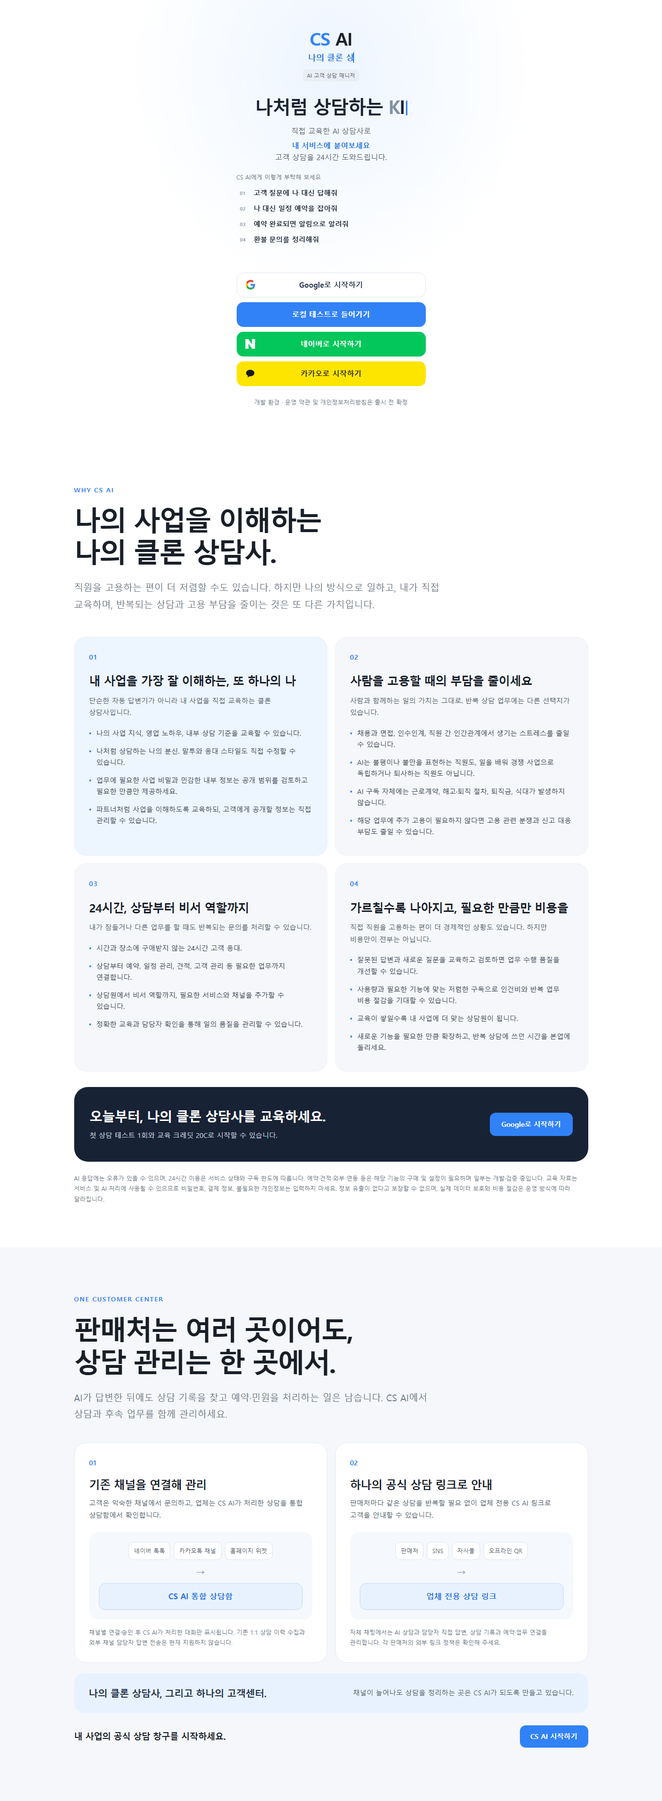
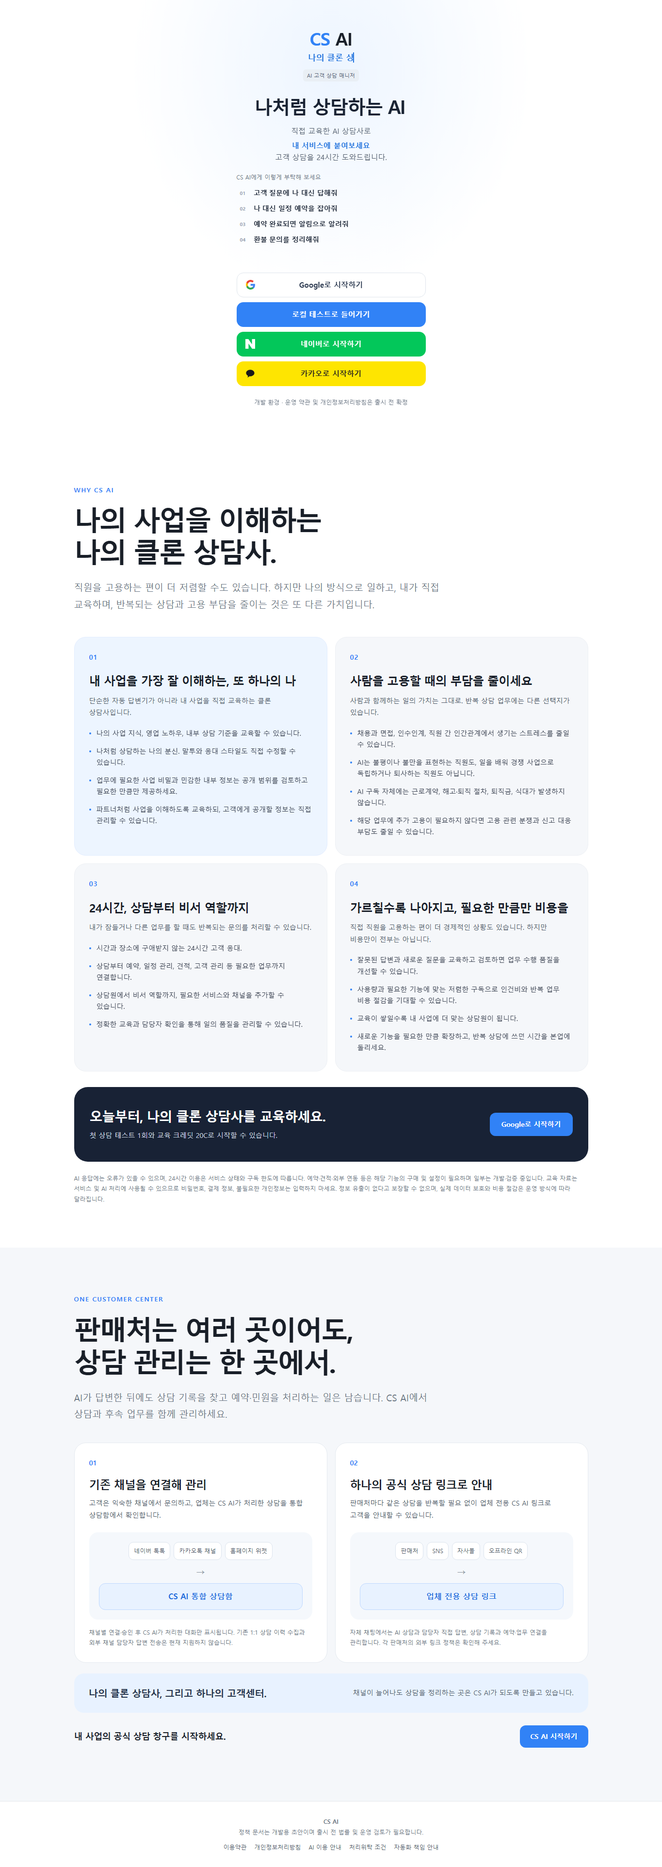
feat: add draft AI responsibility policies and consent flow

diff --git a/web/app.js b/web/app.js
@@ -291,3 +291,19 @@ async function cancelCustomJob(id){await act(async()=>{await api('/api/custom-jo
 
 async function sandboxFail(id){if(!confirm('테스트 주문을 결제 실패 상태로 변경할까요?'))return;await act(async()=>{await api('/api/billing/orders/'+id+'/sandbox-fail',{});await refresh();render()})}
 async function sandboxRefund(id){if(!confirm('실제 돈은 환불되지 않습니다. 테스트 주문의 이용 권한이나 잔액을 회수할까요?'))return;await act(async()=>{await api('/api/billing/orders/'+id+'/sandbox-refund',{confirmed:true});await refresh();render()})}
+
+/* Versioned policy drafts: separate required acknowledgements and automation risk check. */
+const policyLinks=()=>`<nav class="policy-links" aria-label="서비스 정책"><a href="/policies/terms" target="_blank">이용약관</a><a href="/policies/privacy" target="_blank">개인정보처리방침</a><a href="/policies/ai" target="_blank">AI 이용 안내</a><a href="/policies/dpa" target="_blank">처리위탁 조건</a><a href="/policies/automation" target="_blank">자동화 책임 안내</a></nav>`;
+const oldHome=home;
+home=()=>oldHome()+`<footer class="site-policy-footer"><b>CS AI</b><p>정책 문서는 개발용 초안이며 출시 전 법률 및 운영 검토가 필요합니다.</p>${policyLinks()}</footer>`;
+const oldShell=shell;
+shell=body=>oldShell(body).replace('</main>',`<footer class="app-policy-footer">${policyLinks()}</footer></main>`);
+const oldPhone=phone;
+phone=(s,test=false,preview=false)=>oldPhone(s,test,preview).replace('</header>','</header><div class="ai-disclosure"><b>AI 상담 안내</b> · 답변에 오류가 있을 수 있습니다. 예약·결제·환불 조건은 업체 담당자에게 확인해 주세요. <a href="/policies/ai" target="_blank">AI 이용 안내</a> · <a href="/policies/privacy" target="_blank">개인정보 안내</a></div>');
+const policySettingsBase=settings;
+settings=async()=> (await policySettingsBase())+card('AI 자동화 위험 확인',`<p class="muted">예약 자동 확정은 별도 확인 후 사용할 수 있습니다. 견적 확정·실제 환불·보상 약속은 담당자 승인이 필요합니다.</p><p><a href="/policies/automation" target="_blank">자동화 및 책임 정책 보기</a></p>${['errors|AI 답변과 처리 결과에 오류가 생길 수 있음을 확인합니다.','accuracy|등록한 가격·예약 정보와 정책을 정확히 관리합니다.','approval|계약·결제·환불·보상 결정은 담당자가 승인합니다.'].map(x=>{let [k,v]=x.split('|');return `<label class="policy-check"><input type="checkbox" id="auto-${k}"> ${e(v)}</label>`}).join('')}${btn(me.policy?.automation_accepted?'확인 기록 갱신':'자동화 위험 확인 저장','saveAutomationAck()','primary')}`);
+async function saveAutomationAck(){await act(async()=>{await api('/api/policies/automation-ack',{version:me.policy.version,errors:checked('auto-errors'),accuracy:checked('auto-accuracy'),approval:checked('auto-approval')});await refresh();toast('자동화 위험 확인을 기록했습니다.');render()})}
+function consentScreen(){let items=[['terms','서비스 이용약관'],['privacy','개인정보처리방침 확인'],['ai','AI 이용 및 책임 안내'],['dpa','개인정보 처리위탁 조건']];return `<div class="policy-consent"><section class="card"><div class="brand"><b>CS</b> AI</div><h1>서비스 정책 확인</h1><p class="muted">${me.policy?.draft?'개발용 초안입니다. 정식 출시 전 법률 검토와 운영 정보 확정이 필요합니다.':'서비스를 사용하려면 아래 내용을 각각 확인해 주세요.'}</p>${items.map(([k,n])=>`<label class="policy-check"><input type="checkbox" id="policy-${k}"><span>[필수] ${e(n)} <a href="/policies/${k}" target="_blank" onclick="event.stopPropagation()">내용 보기</a></span></label>`).join('')}<p class="muted">마케팅 수신 동의는 실제 운영 방식이 정해진 뒤 별도로 요청합니다.</p>${btn('확인하고 계속하기','savePolicyConsent()','primary')} ${btn('로그아웃','logout()')}</section></div>`}
+async function savePolicyConsent(){await act(async()=>{await api('/api/policies/accept',{version:me.policy.version,...Object.fromEntries(['terms','privacy','ai','dpa'].map(k=>[k,checked('policy-'+k)]))});await refresh();render()})}
+const oldRender=render;
+render=async function(){if(me&&!me.policy?.accepted){$('#app').innerHTML=consentScreen();return}return oldRender()};

diff --git a/web/ui-refinement.css b/web/ui-refinement.css
@@ -57,6 +57,20 @@
 .phone .chat-actions{display:flex;gap:6px;flex-wrap:wrap;padding-top:8px}
 .phone .chat-actions button{min-height:31px;padding:5px 9px;font-size:11px}
 .phone .phone-foot{padding:8px 0 0;color:#9aa4af;font-size:10px}
+.ai-disclosure{padding:10px 16px;background:#f4f8ff;color:#4e5968;font-size:12px;line-height:1.55;border-bottom:1px solid #e8eef7}
+.ai-disclosure b{color:#236fde}
+.site-policy-footer,.app-policy-footer{padding:32px 20px;text-align:center;color:#6b7684;font-size:12px}
+.site-policy-footer{background:#fff;border-top:1px solid #e5e8eb}
+.site-policy-footer p{margin:4px 0 12px}
+.policy-links{display:flex;justify-content:center;flex-wrap:wrap;gap:8px 16px}
+.policy-links a{color:#4e5968;text-decoration:none}
+.policy-links a:hover{text-decoration:underline}
+.policy-consent{min-height:100dvh;display:grid;place-items:center;padding:20px;background:#f4f6f8}
+.policy-consent>.card{width:min(100%,520px);background:#fff}
+.policy-consent .brand{margin-bottom:20px;font-size:22px}
+.policy-check{display:flex;align-items:flex-start;gap:10px;padding:13px 0;border-bottom:1px solid #edf0f2;line-height:1.5;cursor:pointer}
+.policy-check input{width:auto;margin:4px 0 0;flex:none}
+.policy-check a{margin-left:6px;white-space:nowrap}
 .phone .resize-note{color:#9aa4af}
 .phone .chat-pending{background:#fff;color:#6b7684;border:1px solid #e9edf2}
 .phone .streaming-reply{background:#fff;color:#191f28;border:1px solid #e9edf2;border-radius:16px 16px 16px 5px}

diff --git a/policies.py b/policies.py
@@ -1,0 +1,83 @@
+"""Versioned development policy drafts and auditable workspace acknowledgements."""
+import html
+import os
+from fastapi import HTTPException, Depends
+from fastapi.responses import HTMLResponse
+from store import db, one, now
+
+VERSION = 'draft-2026-11-26'
+APPROVED = os.getenv('POLICY_APPROVED_VERSION') == VERSION
+if os.getenv('POLICY_ENFORCE') == '1' and not APPROVED:
+    raise RuntimeError('Approve and version the final policy text before POLICY_ENFORCE=1')
+ENFORCED = os.getenv('POLICY_ENFORCE') == '1' and APPROVED
+DOCUMENTS = {
+    'terms': ('서비스 이용약관', [
+        'CS AI는 업체의 고객 상담과 관련 업무를 지원하는 소프트웨어입니다. 업체는 자신이 판매하는 상품·서비스, 등록한 상담 자료와 가격·환불 정책을 관리합니다.',
+        'AI 답변에는 오류가 있을 수 있습니다. 업체는 중요한 계약, 결제, 견적, 환불 및 손해배상 결정을 담당자가 확인하도록 운영해야 합니다.',
+        'CS AI의 시스템 결함, 개인정보 사고 또는 결제 오류에 관한 책임은 원인과 적용 법령에 따라 판단합니다. 고의나 중대한 과실에 대한 법정 책임을 일괄 배제하지 않습니다.',
+        '요금, 해지, 환불, 장애 보상 및 분쟁 접수 절차는 출시 전 별도 확정이 필요합니다.'
+    ]),
+    'privacy': ('개인정보처리방침', [
+        '업체 계정 식별정보, 교육 자료, 상담 기록, 예약 정보 및 사용량을 서비스 제공·보안·고객 지원을 위해 처리합니다.',
+        '업체의 최종 고객 정보에 대해서는 업체와 CS AI의 역할을 구분하고 처리위탁 조건을 별도로 정합니다.',
+        '보관 기간, 삭제 절차, 국외 이전 대상·국가·방법, 문의처는 실제 인프라와 계약을 확인한 뒤 출시 전에 명시해야 합니다.',
+        '선택적 마케팅 수신은 서비스 이용과 분리해 동의를 받습니다.'
+    ]),
+    'ai': ('AI 이용 및 책임 안내', [
+        '상담은 생성형 AI가 업체가 입력한 자료와 설정을 기반으로 수행할 수 있습니다. 사실관계가 불명확한 경우 담당자 확인으로 전환해야 합니다.',
+        'AI 결과에는 부정확하거나 누락된 내용이 있을 수 있습니다. 업체는 제공 자료와 설정을 최신 상태로 유지하고 중요한 결과를 검토합니다.',
+        '등록되지 않은 할인, 환불, 보상, 법적 약속 또는 금전 지급은 AI가 확정할 수 없습니다. 관련 요청은 담당자가 결정합니다.',
+        '고객에게 AI 사용 사실을 상담 전에 알리고, 필요한 경우 생성 결과임을 표시합니다.'
+    ]),
+    'dpa': ('개인정보 처리위탁 조건 초안', [
+        '업체는 고객정보의 처리 목적과 범위를 결정하고, CS AI는 계약된 상담·예약·기록 관리 목적에 한해 해당 정보를 처리합니다.',
+        '접근 통제, 사고 통지, 재위탁, 국외 이전, 보관·반환·삭제, 감사 및 계약 종료 조항은 실제 공급업체와 데이터 흐름을 확인해 별도 계약으로 확정해야 합니다.'
+    ]),
+    'automation': ('AI 자동화 및 승인 정책', [
+        '일반 문의와 등록 정보 안내는 업체 설정에 따라 자동 처리할 수 있습니다.',
+        '예약 자동 확정은 업체가 별도 위험 안내를 확인하고 기능을 켠 경우에만 허용됩니다. 예약 조건과 재고·중복 여부를 업체가 관리합니다.',
+        '견적 확정, 실제 환불, 할인·보상 약속 및 손해배상 합의는 담당자 승인 전 자동으로 실행하지 않습니다.',
+        '자동화로 생긴 손해의 책임은 입력 정보, 승인·운영 과정, 시스템 결함 및 적용 법령을 함께 검토해 판단합니다.'
+    ])
+}
+
+def status(c, ws):
+    accepted = one(c, 'SELECT * FROM policy_acceptance WHERE ws=? AND version=?', (ws, VERSION))
+    ack = one(c, 'SELECT * FROM automation_ack WHERE ws=?', (ws,))
+    return {'version': VERSION, 'draft': not APPROVED, 'accepted': bool(accepted),
+            'required': ENFORCED and not accepted,
+            'automation_accepted': bool(ack and ack['version'] == VERSION)}
+
+def register(app, ident, require):
+    @app.get('/api/policies')
+    def list_policies():
+        return {'version': VERSION, 'draft': not APPROVED,
+                'documents': [{'slug': k, 'title': v[0], 'url': '/policies/'+k} for k, v in DOCUMENTS.items()]}
+
+    @app.get('/policies/{slug}', response_class=HTMLResponse)
+    def policy_page(slug: str):
+        if slug not in DOCUMENTS:
+            raise HTTPException(404, '정책을 찾을 수 없습니다.')
+        title, paragraphs = DOCUMENTS[slug]
+        body = ''.join('<p>'+html.escape(p)+'</p>' for p in paragraphs)
+        return HTMLResponse('<!doctype html><html lang="ko"><meta charset="utf-8"><meta name="viewport" content="width=device-width,initial-scale=1"><title>'+html.escape(title)+' · CS AI</title><style>body{font:16px/1.75 system-ui,sans-serif;color:#202632;max-width:760px;padding:24px;margin:auto}a{color:#3182f6}p{margin:18px 0}</style><a href="/">CS AI로 돌아가기</a><h1>'+html.escape(title)+'</h1>'+(('<p><strong>개발용 초안 · 법률 검토 및 운영 정보 확정 전</strong></p>') if not APPROVED else '')+body+'</html>')
+
+    @app.get('/api/policies/status')
+    def policy_status(ws=Depends(ident)):
+        with db() as c:
+            return status(c, ws)
+
+    @app.post('/api/policies/accept')
+    def policy_accept(body: dict, ws=Depends(ident)):
+        require(body.get('version') == VERSION, '정책 버전이 변경되었습니다. 다시 확인하세요.', 409)
+        require(all(body.get(k) is True for k in ('terms', 'privacy', 'ai', 'dpa')), '필수 정책을 각각 확인하세요.', 422)
+        with db(True) as c:
+            c.execute('INSERT INTO policy_acceptance(ws,version,terms,privacy,ai,dpa,marketing,accepted) VALUES(?,?,?,?,?,?,?,?) ON CONFLICT(ws,version) DO UPDATE SET terms=excluded.terms,privacy=excluded.privacy,ai=excluded.ai,dpa=excluded.dpa,marketing=excluded.marketing,accepted=excluded.accepted', (ws, VERSION, 1, 1, 1, 1, int(body.get('marketing') is True), now()))
+            return status(c, ws)
+
+    @app.post('/api/policies/automation-ack')
+    def automation_accept(body: dict, ws=Depends(ident)):
+        require(body.get('version') == VERSION and all(body.get(k) is True for k in ('errors', 'accuracy', 'approval')), '자동화 위험과 승인 범위를 각각 확인하세요.', 422)
+        with db(True) as c:
+            c.execute('INSERT INTO automation_ack(ws,version,accepted) VALUES(?,?,?) ON CONFLICT(ws) DO UPDATE SET version=excluded.version,accepted=excluded.accepted', (ws, VERSION, now()))
+            return status(c, ws)

diff --git a/app.py b/app.py
@@ -44,6 +44,8 @@ def record_usage(c,ws,kind,model,result):
 def ident(req:Request):
     with db() as c:
         s=one(c,'SELECT * FROM session WHERE token=? AND expires>?',(req.cookies.get('csai_session',''),now()))
+        if s and policies.ENFORCED and req.url.path not in ('/api/me','/api/policies/status','/api/policies/accept','/api/logout'):
+            require(policies.status(c,s['ws'])['accepted'],'서비스 정책 확인이 필요합니다.',403)
     if not s:fail(401,'로그인이 필요합니다.')
     return s['ws']
 @app.middleware('http')
@@ -59,7 +61,7 @@ async def guard(req,call_next):
         if not w:return Response('Unknown or inactive domain',404)
         path=req.url.path
         if path=='/' and req.method=='GET':return RedirectResponse('/c/'+w['slug'],307)
-        allowed=path in ('/c/'+w['slug'],'/api/config','/api/public/'+w['slug'],'/api/session','/api/chat','/api/booking/availability','/api/booking/draft','/api/customer/requests','/api/customer/bookings/recover') or path.startswith('/assets/') or bool(re.fullmatch(r'/api/(?:session/[A-Za-z0-9_-]+/messages|booking/form/[A-Za-z0-9_-]+|booking/[A-Za-z0-9_-]+/confirm|customer/bookings/[A-Za-z0-9_-]+(?:/change|/recovery-code)?|customer/requests/[A-Za-z0-9_-]+)',path))
+        allowed=path in ('/c/'+w['slug'],'/api/config','/api/public/'+w['slug'],'/api/session','/api/chat','/api/booking/availability','/api/booking/draft','/api/customer/requests','/api/customer/bookings/recover') or path.startswith('/assets/') or path.startswith('/policies/') or bool(re.fullmatch(r'/api/(?:session/[A-Za-z0-9_-]+/messages|booking/form/[A-Za-z0-9_-]+|booking/[A-Za-z0-9_-]+/confirm|customer/bookings/[A-Za-z0-9_-]+(?:/change|/recovery-code)?|customer/requests/[A-Za-z0-9_-]+)',path))
         if not allowed:return Response('Public consultation only',404)
         allowed_origin='https://'+host
         context=domains.current_ws.set(w['id'])
@@ -121,7 +123,7 @@ def config():return {'demo':DEMO,'shared_test':SHARED_TEST,'ai_connected':bool(a
 @app.get('/api/me')
 def me(ws=Depends(ident)):
     with db() as c:
-        w=getw(c,ws);t=trial(c,w);op=is_operator(w);credits=(10000-operator_wallet(c,w)['credit_used']) if op else (t['credit_limit']-t['credit_used'] if t else w['credits']);return {'slug':w['slug'],'settings':loads(w['settings']),'plan':w['plan'],'credits':credits,'remaining':remaining(c,w),'quota':10000 if op else t['chat_limit'] if t else PLAN[w['plan']]['quantity'],'public_access':public_access(w),'sandbox_allowed':sandbox_allowed(c,w),'addons':loads(w['addons']),'entitlements':sorted(entitlements(w)),'enabled':bool(w['enabled']),'published':loads(w['published']),'operator':op,'trial':({'expires':t['expires'],'bookings_remaining':trial_bookings_remaining(c,w)} if t else None)}
+        w=getw(c,ws);t=trial(c,w);op=is_operator(w);credits=(10000-operator_wallet(c,w)['credit_used']) if op else (t['credit_limit']-t['credit_used'] if t else w['credits']);return {'slug':w['slug'],'settings':loads(w['settings']),'plan':w['plan'],'credits':credits,'remaining':remaining(c,w),'quota':10000 if op else t['chat_limit'] if t else PLAN[w['plan']]['quantity'],'public_access':public_access(w),'sandbox_allowed':sandbox_allowed(c,w),'addons':loads(w['addons']),'entitlements':sorted(entitlements(w)),'enabled':bool(w['enabled']),'published':loads(w['published']),'operator':op,'trial':({'expires':t['expires'],'bookings_remaining':trial_bookings_remaining(c,w)} if t else None),'policy':policies.status(c,ws)}
 @app.patch('/api/settings')
 def settings(body:dict,ws=Depends(ident)):
     with db(True) as c:
@@ -137,6 +139,8 @@ def settings(body:dict,ws=Depends(ident)):
         if 'modes' in body:
             for k,v in body['modes'].items():
                 if k in s['modes'] and v in ['auto','manual','off']:s['modes'][k]=v
+            if s['modes'].get('booking')=='auto':
+                require(policies.status(c,ws)['automation_accepted'],'예약 자동 확정 위험 안내를 먼저 확인하세요.',403)
         if any(k in body for k in ['fields','open','close','duration','buffer','closed_days','payment_required','timezone','resources']):require('calendar' in entitlements(w))
         if 'resources' in body:
             rs=body['resources'];require(isinstance(rs,list) and 1<=len(rs)<=20,'담당자는 1~20명',422);out=[];seen=set()
@@ -598,6 +602,8 @@ import push_notifications
 import domains
 import message_notifications
 import custom_integration
+import policies
+policies.register(app,ident,require)
 
 # Optional one-process worker for the development container. Disabled unless configured.
 _worker_stop=None

diff --git a/tests/test_policies.py b/tests/test_policies.py
@@ -1,0 +1,32 @@
+from tests.test_app import owner, post
+
+def test_policy_documents_and_separate_acceptance():
+    c = owner()
+    docs = c.get('/api/policies').json()
+    assert docs['draft'] is True
+    for item in docs['documents']:
+        page = c.get(item['url'])
+        assert page.status_code == 200 and '개발용 초안' in page.text
+    version = docs['version']
+    assert c.post('/api/policies/accept', json={'version': version, 'terms': True, 'privacy': True, 'ai': True}).status_code == 422
+    result = post(c, '/api/policies/accept', {'version': version, 'terms': True, 'privacy': True, 'ai': True, 'dpa': True, 'marketing': False})
+    assert result['accepted'] is True
+    assert c.get('/api/me').json()['policy']['accepted'] is True
+
+def test_auto_booking_requires_separate_acknowledgement():
+    c = owner()
+    assert c.patch('/api/settings', json={'modes': {'booking': 'auto'}}).status_code == 403
+    v = c.get('/api/policies/status').json()['version']
+    assert c.post('/api/policies/automation-ack', json={'version': v, 'errors': True, 'accuracy': True}).status_code == 422
+    post(c, '/api/policies/automation-ack', {'version': v, 'errors': True, 'accuracy': True, 'approval': True})
+    assert c.patch('/api/settings', json={'modes': {'booking': 'auto'}}).status_code == 200
+
+def test_published_policy_blocks_direct_api_until_accepted(monkeypatch):
+    import policies
+    c = owner()
+    monkeypatch.setattr(policies, 'ENFORCED', True)
+    assert c.get('/api/me').status_code == 200
+    assert c.patch('/api/settings', json={'brand': '우회 시도'}).status_code == 403
+    v = c.get('/api/policies/status').json()['version']
+    post(c, '/api/policies/accept', {'version': v, 'terms': True, 'privacy': True, 'ai': True, 'dpa': True})
+    assert c.patch('/api/settings', json={'brand': '확인 완료'}).status_code == 200

diff --git a/tests/live_ui_smoke.py b/tests/live_ui_smoke.py
@@ -22,6 +22,11 @@ with sync_playwright() as pw:
     desktop.locator(".landing-benefits-cta button").wait_for()
     desktop.screenshot(path=str(OUT / "live_landing_desktop.png"), full_page=True)
     desktop.goto(BASE + "/auth/demo", wait_until="networkidle")
+    desktop.get_by_role("heading", name="서비스 정책 확인").wait_for()
+    desktop.screenshot(path=str(OUT / "live_policy_desktop.png"), full_page=True)
+    for key in ("terms", "privacy", "ai", "dpa"):
+        desktop.locator("#policy-" + key).check()
+    desktop.get_by_role("button", name="확인하고 계속하기").click()
     desktop.get_by_role("heading", name="AI 교육시키기").wait_for()
     desktop.locator(".app-sidebar").get_by_role("button", name="통합 상담함").click()
     desktop.get_by_role("heading", name="통합 상담함").wait_for()
@@ -70,6 +75,13 @@ with sync_playwright() as pw:
     assert mobile.evaluate("document.documentElement.scrollWidth <= innerWidth")
     mobile.screenshot(path=str(OUT / "live_landing_mobile.png"), full_page=True)
     mobile.goto(BASE + "/auth/demo", wait_until="networkidle")
+    mobile.get_by_role("heading", name="서비스 정책 확인").wait_for()
+    assert mobile.evaluate("document.documentElement.scrollWidth <= innerWidth")
+    mobile.screenshot(path=str(OUT / "live_policy_mobile.png"), full_page=True)
+    for key in ("terms", "privacy", "ai", "dpa"):
+        mobile.locator("#policy-" + key).check()
+    mobile.get_by_role("button", name="확인하고 계속하기").click()
+    mobile.get_by_role("heading", name="AI 교육시키기").wait_for()
     mobile.get_by_role("button", name="메뉴 열기").click()
     mobile.locator(".app-sidebar").get_by_role("button", name="채팅창 미리보기").click()
     mobile.get_by_role("heading", name="채팅창 미리보기").wait_for()

diff --git a/store.py b/store.py
@@ -68,6 +68,8 @@ def init():
         CREATE TABLE IF NOT EXISTS trial_access(ws TEXT PRIMARY KEY REFERENCES workspace(id),invite_id TEXT UNIQUE REFERENCES trial_invite(id),chat_limit INTEGER NOT NULL,chat_used INTEGER NOT NULL DEFAULT 0,credit_limit INTEGER NOT NULL,credit_used INTEGER NOT NULL DEFAULT 0,booking_limit INTEGER NOT NULL DEFAULT 10,expires INTEGER NOT NULL);
         CREATE TABLE IF NOT EXISTS operator_wallet(ws TEXT PRIMARY KEY REFERENCES workspace(id),period TEXT NOT NULL,chat_used INTEGER NOT NULL DEFAULT 0,credit_used INTEGER NOT NULL DEFAULT 0);
         CREATE TABLE IF NOT EXISTS model_usage(id TEXT PRIMARY KEY,ws TEXT NOT NULL REFERENCES workspace(id),kind TEXT NOT NULL,model TEXT NOT NULL,mode TEXT NOT NULL,input_tokens INTEGER NOT NULL DEFAULT 0,cached_input_tokens INTEGER NOT NULL DEFAULT 0,output_tokens INTEGER NOT NULL DEFAULT 0,estimated_cost_usd REAL NOT NULL DEFAULT 0,created INTEGER NOT NULL);
+        CREATE TABLE IF NOT EXISTS policy_acceptance(ws TEXT NOT NULL REFERENCES workspace(id),version TEXT NOT NULL,terms INTEGER NOT NULL,privacy INTEGER NOT NULL,ai INTEGER NOT NULL,dpa INTEGER NOT NULL,marketing INTEGER NOT NULL DEFAULT 0,accepted INTEGER NOT NULL,PRIMARY KEY(ws,version));
+        CREATE TABLE IF NOT EXISTS automation_ack(ws TEXT PRIMARY KEY REFERENCES workspace(id),version TEXT NOT NULL,accepted INTEGER NOT NULL);
         ''')
         if 'booking_context' not in [r[1] for r in c.execute('PRAGMA table_info(thread)')]:c.execute("ALTER TABLE thread ADD COLUMN booking_context TEXT NOT NULL DEFAULT '{}'")
         if 'days' not in [r[1] for r in c.execute('PRAGMA table_info(trial_invite)')]:c.execute('ALTER TABLE trial_invite ADD COLUMN days INTEGER NOT NULL DEFAULT 14')

diff --git a/tests/test_app.py b/tests/test_app.py
@@ -23,7 +23,7 @@ def patch(c,body):
     r=c.patch('/api/settings',json=body);assert r.status_code==200,r.text
 
 def setup_booking(auto=True,payment=False):
-    c=owner();post(c,'/api/demo/billing',{'plan':'lite','addons':['auto_booking','change_booking']});patch(c,{'enabled':True,'fields':[{'key':'name','label':'고객명','type':'text','required':True}], 'modes':{'booking':'auto' if auto else 'manual'},'payment_required':payment});return c
+    c=owner();post(c,'/api/demo/billing',{'plan':'lite','addons':['auto_booking','change_booking']});policy=c.get('/api/policies/status').json();post(c,'/api/policies/automation-ack',{'version':policy['version'],'errors':True,'accuracy':True,'approval':True});patch(c,{'enabled':True,'fields':[{'key':'name','label':'고객명','type':'text','required':True}], 'modes':{'booking':'auto' if auto else 'manual'},'payment_required':payment});return c
 
 def public(c):
     slug=c.get('/api/me').json()['slug'];u=TestClient(app);t=post(u,'/api/session',{'slug':slug})['token'];return u,t

diff --git a/FEATURE_CHECKLIST.md b/FEATURE_CHECKLIST.md
@@ -73,4 +73,6 @@
 
 2026-11-26 안정화: 최초 잔액 기준 교육 예약·정산, 체험 회수 및 월 전환 후 오지급 방지, 상담 저장 실패 복구, 중복 교육 승인 방지를 추가했습니다. 새 정산 함수의 격리 SQLite 검사 4가지 통과(전체 앱 테스트와 별개). 기존 SQLite를 초기화된 빈 PostgreSQL로 옮기는 dry-run 우선 이전 도구 추가; 실제 이전 및 전체 테스트는 미검증입니다.
 
+2026-11-26 AI 책임 및 정책: 푸터 정책 링크, 개발용 약관·개인정보·AI 이용·처리위탁·자동화 초안, 가입 시 항목별 확인과 버전·시각 기록, 고객 상담 전 AI·오류 가능성 고지, 예약 자동 확정 별도 위험 확인을 구현했습니다. `POLICY_ENFORCE=1`은 `POLICY_APPROVED_VERSION`이 현행 버전과 일치해야만 서버에서 적용됩니다. 현재 문구는 법률 검토 전 초안이며 사업자 정보, 실제 보관·삭제 기간, 국외 이전, 결제·환불·장애 정책, 처리위탁 계약은 확정 전입니다. 79개 Python 테스트 및 직접 HTTP PC·모바일 브라우저 검수 통과. 실제 Supabase·Cloudflare 배포 검증 전입니다.
+
 추가 안정화: 예약 관리자 등록·변경·취소·완료 알림 및 수동 상담 첫 문의 알림 추가. 실제 이메일은 확인된 Google 계정 주소만 허용하며 개발 모드에서는 모의 발송. 워커 서비스별 오류를 분리해 다른 자동 작업이 계속 실행되도록 변경. 회귀 테스트를 추가했으나 전체 실행 결과는 아직 검증하지 못했습니다.
